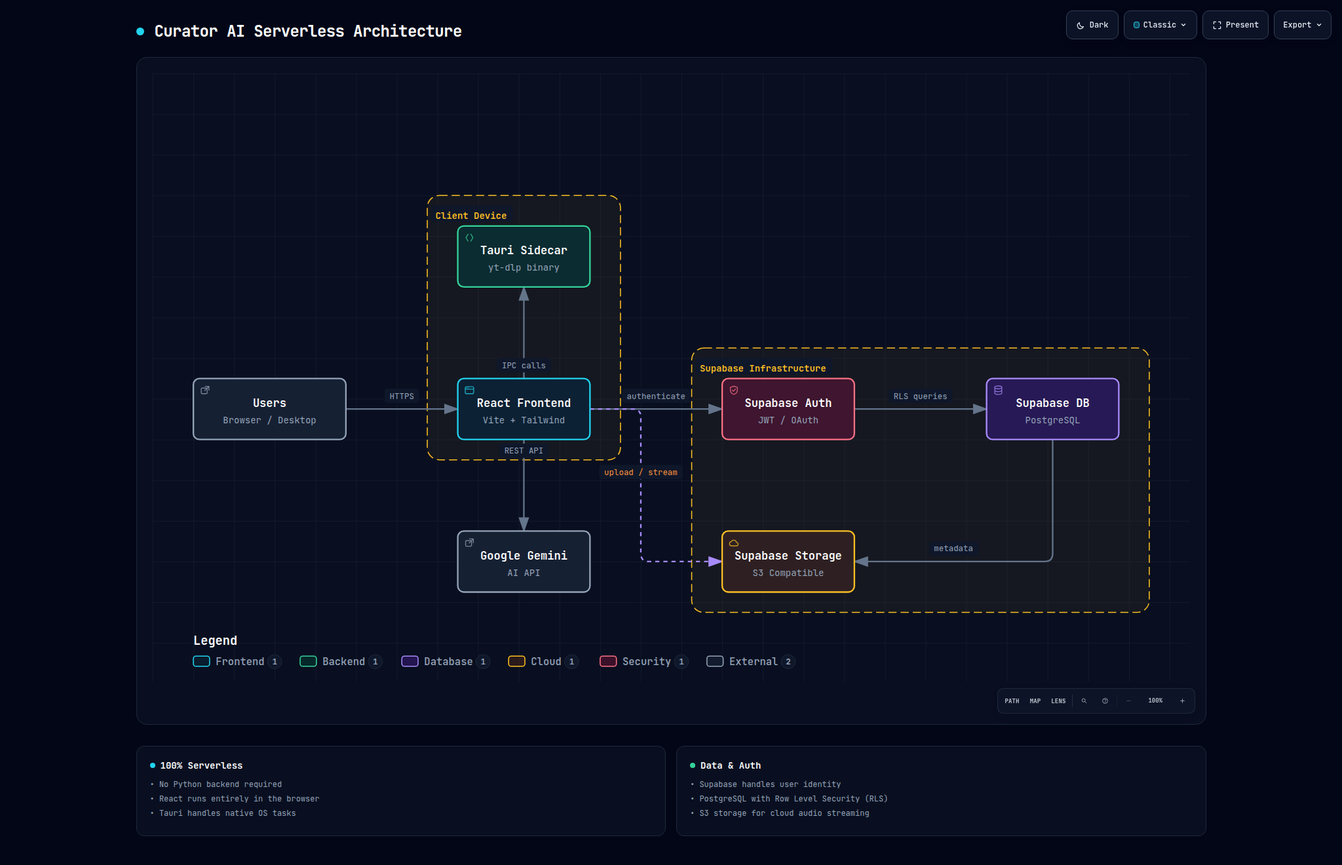
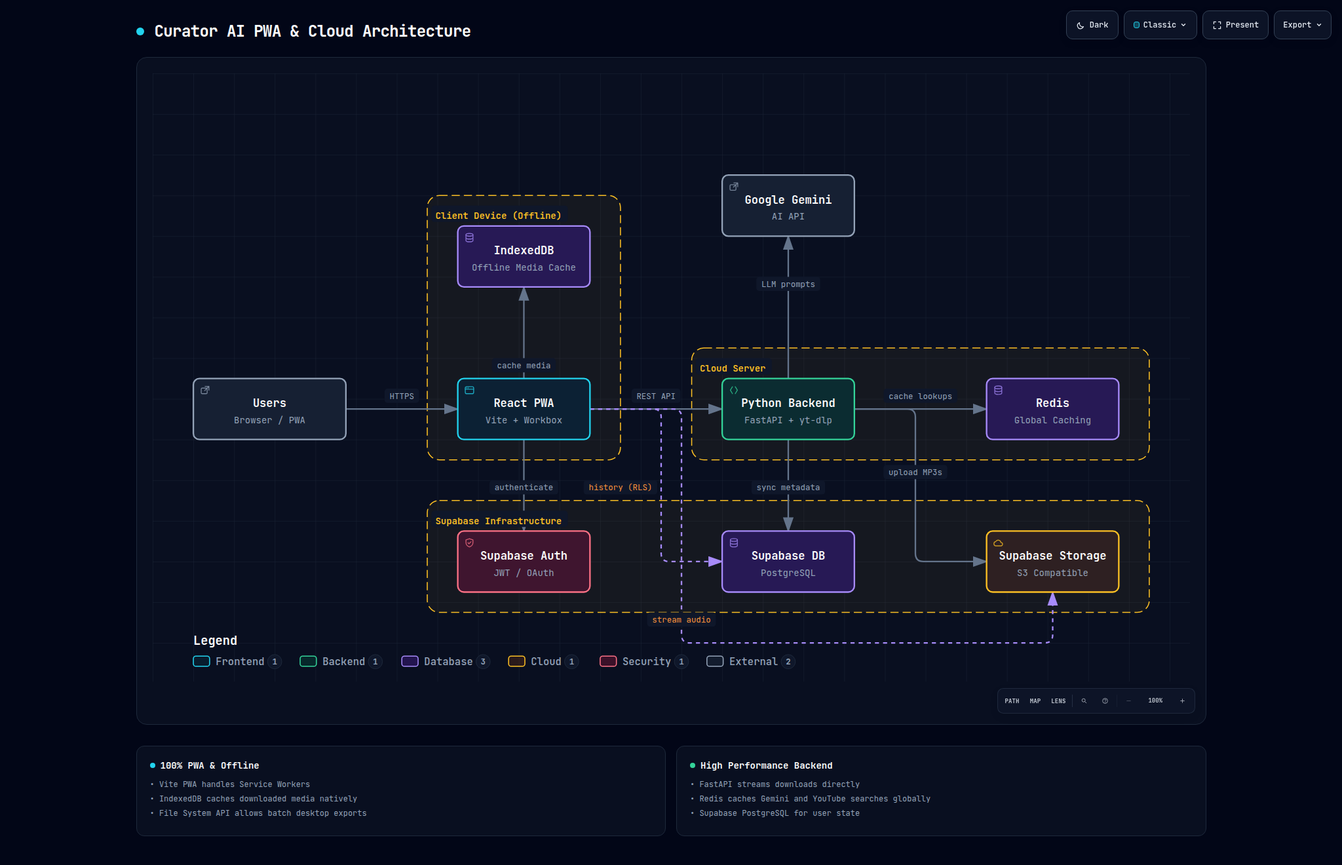
docs: update architecture diagrams to reflect new PWA and Redis caching architecture

diff --git a/docs/architecture/curator-architecture.html b/docs/architecture/curator-architecture.html
@@ -4,7 +4,7 @@
   <meta charset="UTF-8">
   <meta name="viewport" content="width=device-width, initial-scale=1.0">
   <meta name="generator" content="archify 2.17.0-dev.1">
-  <title>Curator AI Serverless Architecture Diagram</title>
+  <title>Curator AI PWA &amp; Cloud Architecture Diagram</title>
   <script>
     // Resolve the theme before first paint so light-preference users don't
     // see a dark flash. The toolbar script below re-applies with UI state.
@@ -5081,7 +5081,7 @@ OTHER DEALINGS IN THE FONT SOFTWARE.
            data-preset-badge-blueprint="BLUEPRINT / REV 01"
            data-preset-badge-editorial="EDITORIAL / FIELD NOTE">
         <div class="pulse-dot"></div>
-        <h1>Curator AI Serverless Architecture</h1>
+        <h1>Curator AI PWA &amp; Cloud Architecture</h1>
       </div>
     </div>
 
@@ -5131,7 +5131,7 @@ OTHER DEALINGS IN THE FONT SOFTWARE.
     <div class="diagram-container" data-detail-level="read"
          data-preset-badge-editorial-plate="ARCHIFY / PLATE 04">
       <svg viewBox="0 0 1020 598" role="img" lang="en" aria-labelledby="archify-diagram-title archify-diagram-description" data-preset="classic" data-quality-profile="showcase">
-        <title id="archify-diagram-title">Curator AI Serverless Architecture</title>
+        <title id="archify-diagram-title">Curator AI PWA &amp; Cloud Architecture</title>
         <desc id="archify-diagram-description">An architecture diagram generated by Archify.</desc>
         <!-- Definitions -->
         <defs>
@@ -5156,22 +5156,27 @@ OTHER DEALINGS IN THE FONT SOFTWARE.
         <rect width="100%" height="100%" fill="url(#grid)" />
 
         <!-- Boundaries (behind everything) -->
-        <rect data-graph-role="structural-frame" data-composition-frame-kind="region" data-composition-frame-id="0" data-composition-frame-label="Supabase Infrastructure" x="530" y="270" width="450" height="260" rx="12" class="c-region" stroke-width="1"/>
+        <rect data-graph-role="structural-frame" data-composition-frame-kind="region" data-composition-frame-id="0" data-composition-frame-label="Client Device (Offline)" x="270" y="120" width="190" height="260" rx="12" class="c-region" stroke-width="1"/>
 
-        <rect data-graph-role="structural-frame" data-composition-frame-kind="region" data-composition-frame-id="1" data-composition-frame-label="Client Device" x="270" y="120" width="190" height="260" rx="12" class="c-region" stroke-width="1"/>
+        <rect data-graph-role="structural-frame" data-composition-frame-kind="region" data-composition-frame-id="1" data-composition-frame-label="Cloud Server" x="530" y="270" width="450" height="110" rx="12" class="c-region" stroke-width="1"/>
+
+        <rect data-graph-role="structural-frame" data-composition-frame-kind="region" data-composition-frame-id="2" data-composition-frame-label="Supabase Infrastructure" x="270" y="420" width="710" height="110" rx="12" class="c-region" stroke-width="1"/>
 
         <!-- Connection paths (before components for correct z-order) -->
-        <path data-edge-from="users" data-edge-to="frontend" data-edge-label="HTTPS" data-edge-key="0" data-edge-id="user-frontend" data-composition-points="190,330;300,330" d="M 190 330 L 300 330" class="a-default" stroke-width="1.5" marker-end="url(#arrowhead)"/>
-        <path data-edge-from="frontend" data-edge-to="tauri" data-edge-label="IPC calls" data-edge-key="1" data-edge-id="frontend-tauri" data-composition-points="365,300;365,210" d="M 365 300 L 365 210" class="a-default" stroke-width="1.5" marker-end="url(#arrowhead)"/>
-        <path data-edge-from="frontend" data-edge-to="gemini" data-edge-label="REST API" data-edge-key="2" data-edge-id="frontend-gemini" data-composition-points="365,360;365,450" d="M 365 360 L 365 450" class="a-default" stroke-width="1.5" marker-end="url(#arrowhead)"/>
-        <path data-edge-from="frontend" data-edge-to="supabase_auth" data-edge-label="authenticate" data-edge-key="3" data-edge-id="frontend-auth" data-composition-points="430,330;560,330" d="M 430 330 L 560 330" class="a-default" stroke-width="1.5" marker-end="url(#arrowhead)"/>
-        <path data-edge-from="supabase_auth" data-edge-to="supabase_db" data-edge-label="RLS queries" data-edge-key="4" data-edge-id="auth-db" data-composition-points="690,330;820,330" d="M 690 330 L 820 330" class="a-default" stroke-width="1.5" marker-end="url(#arrowhead)"/>
-        <path data-edge-from="supabase_db" data-edge-to="supabase_storage" data-edge-label="metadata" data-edge-key="5" data-edge-id="db-storage" data-composition-points="885,360;885,480;690,480" d="M 885 360 L 885 472 Q 885 480 877 480 L 690 480" class="a-default" stroke-width="1.5" marker-end="url(#arrowhead)"/>
-        <path data-edge-from="frontend" data-edge-to="supabase_storage" data-edge-label="upload / stream" data-edge-key="6" data-edge-id="frontend-storage" data-composition-points="430,330;480,330;480,480;560,480" d="M 430 330 L 472 330 Q 480 330 480 338 L 480 472 Q 480 480 488 480 L 560 480" class="a-dashed" stroke-width="1.5" marker-end="url(#arrowhead-dashed)"/>
+        <path data-edge-from="users" data-edge-to="pwa_frontend" data-edge-label="HTTPS" data-edge-key="0" data-edge-id="user-pwa" data-composition-points="190,330;300,330" d="M 190 330 L 300 330" class="a-default" stroke-width="1.5" marker-end="url(#arrowhead)"/>
+        <path data-edge-from="pwa_frontend" data-edge-to="indexed_db" data-edge-label="cache media" data-edge-key="1" data-edge-id="pwa-idb" data-composition-points="365,300;365,210" d="M 365 300 L 365 210" class="a-default" stroke-width="1.5" marker-end="url(#arrowhead)"/>
+        <path data-edge-from="pwa_frontend" data-edge-to="supabase_auth" data-edge-label="authenticate" data-edge-key="2" data-edge-id="pwa-auth" data-composition-points="365,360;365,450" d="M 365 360 L 365 450" class="a-default" stroke-width="1.5" marker-end="url(#arrowhead)"/>
+        <path data-edge-from="pwa_frontend" data-edge-to="fastapi_backend" data-edge-label="REST API" data-edge-key="3" data-edge-id="pwa-backend" data-composition-points="430,330;560,330" d="M 430 330 L 560 330" class="a-default" stroke-width="1.5" marker-end="url(#arrowhead)"/>
+        <path data-edge-from="fastapi_backend" data-edge-to="gemini" data-edge-label="LLM prompts" data-edge-key="4" data-edge-id="backend-gemini" data-composition-points="625,300;625,160" d="M 625 300 L 625 160" class="a-default" stroke-width="1.5" marker-end="url(#arrowhead)"/>
+        <path data-edge-from="fastapi_backend" data-edge-to="redis_cache" data-edge-label="cache lookups" data-edge-key="5" data-edge-id="backend-redis" data-composition-points="690,330;820,330" d="M 690 330 L 820 330" class="a-default" stroke-width="1.5" marker-end="url(#arrowhead)"/>
+        <path data-edge-from="fastapi_backend" data-edge-to="supabase_db" data-edge-label="sync metadata" data-edge-key="6" data-edge-id="backend-db" data-composition-points="625,360;625,450" d="M 625 360 L 625 450" class="a-default" stroke-width="1.5" marker-end="url(#arrowhead)"/>
+        <path data-edge-from="fastapi_backend" data-edge-to="supabase_storage" data-edge-label="upload MP3s" data-edge-key="7" data-edge-id="backend-storage" data-composition-points="690,330;750,330;750,480;820,480" d="M 690 330 L 742 330 Q 750 330 750 338 L 750 472 Q 750 480 758 480 L 820 480" class="a-default" stroke-width="1.5" marker-end="url(#arrowhead)"/>
+        <path data-edge-from="pwa_frontend" data-edge-to="supabase_db" data-edge-label="history (RLS)" data-edge-key="8" data-edge-id="pwa-db" data-composition-points="430,330;500,330;500,480;560,480" d="M 430 330 L 492 330 Q 500 330 500 338 L 500 472 Q 500 480 508 480 L 560 480" class="a-dashed" stroke-width="1.5" marker-end="url(#arrowhead-dashed)"/>
+        <path data-edge-from="pwa_frontend" data-edge-to="supabase_storage" data-edge-label="stream audio" data-edge-key="9" data-edge-id="pwa-storage" data-composition-points="430,330;520,330;520,560;885,560;885,510" d="M 430 330 L 512 330 Q 520 330 520 338 L 520 552 Q 520 560 528 560 L 877 560 Q 885 560 885 552 L 885 510" class="a-dashed" stroke-width="1.5" marker-end="url(#arrowhead-dashed)"/>
 
         <!-- Components -->
-        <g id="node-users" data-node-id="users" data-node-label="Users" tabindex="0" role="button" aria-label="Focus Users, Browser / Desktop, Architecture component" aria-pressed="false" data-node-kind="external" data-node-sublabel="Browser / Desktop" data-node-context="Architecture component">
-          <title>Users · Browser / Desktop · Architecture component</title>
+        <g id="node-users" data-node-id="users" data-node-label="Users" tabindex="0" role="button" aria-label="Focus Users, Browser / PWA, Architecture component" aria-pressed="false" data-node-kind="external" data-node-sublabel="Browser / PWA" data-node-context="Architecture component">
+          <title>Users · Browser / PWA · Architecture component</title>
           <rect x="40" y="300" width="150" height="60" rx="6" class="c-mask"/>
           <rect x="40" y="300" width="150" height="60" rx="6" class="c-external" stroke-width="1.5"/>
           <g aria-hidden="true" data-semantic-sigil="external" class="semantic-sigil s-external" transform="translate(46 306) scale(0.6875)">
@@ -5179,11 +5184,23 @@ OTHER DEALINGS IN THE FONT SOFTWARE.
             <path d="M8 2.5h5.5V8M13.5 2.5 7.5 8.5"/>
           </g>
           <text data-node-label="" data-detail-anchor="" x="115" y="328" class="t-primary" font-size="11" font-weight="600" text-anchor="middle">Users</text>
-        <text data-detail="context" x="115" y="344" class="t-muted" font-size="9" text-anchor="middle">Browser / Desktop</text>
+        <text data-detail="context" x="115" y="344" class="t-muted" font-size="9" text-anchor="middle">Browser / PWA</text>
         </g>
 
-        <g id="node-frontend" data-node-id="frontend" data-node-label="React Frontend" tabindex="0" role="button" aria-label="Focus React Frontend, Vite + Tailwind, Client Device" aria-pressed="false" data-node-kind="frontend" data-node-sublabel="Vite + Tailwind" data-node-context="Client Device">
-          <title>React Frontend · Vite + Tailwind · Client Device</title>
+        <g id="node-indexed_db" data-node-id="indexed_db" data-node-label="IndexedDB" tabindex="0" role="button" aria-label="Focus IndexedDB, Offline Media Cache, Client Device (Offline)" aria-pressed="false" data-node-kind="database" data-node-sublabel="Offline Media Cache" data-node-context="Client Device (Offline)">
+          <title>IndexedDB · Offline Media Cache · Client Device (Offline)</title>
+          <rect x="300" y="150" width="130" height="60" rx="6" class="c-mask"/>
+          <rect x="300" y="150" width="130" height="60" rx="6" class="c-database" stroke-width="1.5"/>
+          <g aria-hidden="true" data-semantic-sigil="database" class="semantic-sigil s-database" transform="translate(306 156) scale(0.6875)">
+            <ellipse cx="8" cy="4" rx="5" ry="2"/>
+            <path d="M3 4v8c0 1.1 2.2 2 5 2s5-.9 5-2V4M3 8c0 1.1 2.2 2 5 2s5-.9 5-2"/>
+          </g>
+          <text data-node-label="" data-detail-anchor="" x="365" y="178" class="t-primary" font-size="11" font-weight="600" text-anchor="middle">IndexedDB</text>
+        <text data-detail="context" x="365" y="194" class="t-muted" font-size="9" text-anchor="middle">Offline Media Cache</text>
+        </g>
+
+        <g id="node-pwa_frontend" data-node-id="pwa_frontend" data-node-label="React PWA" tabindex="0" role="button" aria-label="Focus React PWA, Vite + Workbox, Client Device (Offline)" aria-pressed="false" data-node-kind="frontend" data-node-sublabel="Vite + Workbox" data-node-context="Client Device (Offline)">
+          <title>React PWA · Vite + Workbox · Client Device (Offline)</title>
           <rect x="300" y="300" width="130" height="60" rx="6" class="c-mask"/>
           <rect x="300" y="300" width="130" height="60" rx="6" class="c-frontend" stroke-width="1.5"/>
           <g aria-hidden="true" data-semantic-sigil="frontend" class="semantic-sigil s-frontend" transform="translate(306 306) scale(0.6875)">
@@ -5192,107 +5209,136 @@ OTHER DEALINGS IN THE FONT SOFTWARE.
             <circle cx="4.1" cy="4.8" r=".7" class="sigil-fill"/>
             <circle cx="6.3" cy="4.8" r=".7" class="sigil-fill"/>
           </g>
-          <text data-node-label="" data-detail-anchor="" x="365" y="328" class="t-primary" font-size="11" font-weight="600" text-anchor="middle">React Frontend</text>
-        <text data-detail="context" x="365" y="344" class="t-muted" font-size="9" text-anchor="middle">Vite + Tailwind</text>
-        </g>
-
-        <g id="node-tauri" data-node-id="tauri" data-node-label="Tauri Sidecar" tabindex="0" role="button" aria-label="Focus Tauri Sidecar, yt-dlp binary, Client Device" aria-pressed="false" data-node-kind="backend" data-node-sublabel="yt-dlp binary" data-node-context="Client Device">
-          <title>Tauri Sidecar · yt-dlp binary · Client Device</title>
-          <rect x="300" y="150" width="130" height="60" rx="6" class="c-mask"/>
-          <rect x="300" y="150" width="130" height="60" rx="6" class="c-backend" stroke-width="1.5"/>
-          <g aria-hidden="true" data-semantic-sigil="backend" class="semantic-sigil s-backend" transform="translate(306 156) scale(0.6875)">
-            <path d="M6 3 3 8l3 5M10 3l3 5-3 5"/>
-          </g>
-          <text data-node-label="" data-detail-anchor="" x="365" y="178" class="t-primary" font-size="11" font-weight="600" text-anchor="middle">Tauri Sidecar</text>
-        <text data-detail="context" x="365" y="194" class="t-muted" font-size="9" text-anchor="middle">yt-dlp binary</text>
-        </g>
-
-        <g id="node-gemini" data-node-id="gemini" data-node-label="Google Gemini" tabindex="0" role="button" aria-label="Focus Google Gemini, AI API, Architecture component" aria-pressed="false" data-node-kind="external" data-node-sublabel="AI API" data-node-context="Architecture component">
-          <title>Google Gemini · AI API · Architecture component</title>
-          <rect x="300" y="450" width="130" height="60" rx="6" class="c-mask"/>
-          <rect x="300" y="450" width="130" height="60" rx="6" class="c-external" stroke-width="1.5"/>
-          <g aria-hidden="true" data-semantic-sigil="external" class="semantic-sigil s-external" transform="translate(306 456) scale(0.6875)">
-            <rect x="2.5" y="5" width="8.5" height="8" rx="1.5"/>
-            <path d="M8 2.5h5.5V8M13.5 2.5 7.5 8.5"/>
-          </g>
-          <text data-node-label="" data-detail-anchor="" x="365" y="478" class="t-primary" font-size="11" font-weight="600" text-anchor="middle">Google Gemini</text>
-        <text data-detail="context" x="365" y="494" class="t-muted" font-size="9" text-anchor="middle">AI API</text>
+          <text data-node-label="" data-detail-anchor="" x="365" y="328" class="t-primary" font-size="11" font-weight="600" text-anchor="middle">React PWA</text>
+        <text data-detail="context" x="365" y="344" class="t-muted" font-size="9" text-anchor="middle">Vite + Workbox</text>
         </g>
 
         <g id="node-supabase_auth" data-node-id="supabase_auth" data-node-label="Supabase Auth" tabindex="0" role="button" aria-label="Focus Supabase Auth, JWT / OAuth, Supabase Infrastructure" aria-pressed="false" data-node-kind="security" data-node-sublabel="JWT / OAuth" data-node-context="Supabase Infrastructure">
           <title>Supabase Auth · JWT / OAuth · Supabase Infrastructure</title>
-          <rect x="560" y="300" width="130" height="60" rx="6" class="c-mask"/>
-          <rect x="560" y="300" width="130" height="60" rx="6" class="c-security" stroke-width="1.5"/>
-          <g aria-hidden="true" data-semantic-sigil="security" class="semantic-sigil s-security" transform="translate(566 306) scale(0.6875)">
+          <rect x="300" y="450" width="130" height="60" rx="6" class="c-mask"/>
+          <rect x="300" y="450" width="130" height="60" rx="6" class="c-security" stroke-width="1.5"/>
+          <g aria-hidden="true" data-semantic-sigil="security" class="semantic-sigil s-security" transform="translate(306 456) scale(0.6875)">
             <path d="M8 2.2 13 4v3.5c0 3.1-1.8 5.4-5 6.5-3.2-1.1-5-3.4-5-6.5V4Z"/>
             <path d="m5.8 8 1.5 1.5 3-3"/>
           </g>
-          <text data-node-label="" data-detail-anchor="" x="625" y="328" class="t-primary" font-size="11" font-weight="600" text-anchor="middle">Supabase Auth</text>
-        <text data-detail="context" x="625" y="344" class="t-muted" font-size="9" text-anchor="middle">JWT / OAuth</text>
+          <text data-node-label="" data-detail-anchor="" x="365" y="478" class="t-primary" font-size="11" font-weight="600" text-anchor="middle">Supabase Auth</text>
+        <text data-detail="context" x="365" y="494" class="t-muted" font-size="9" text-anchor="middle">JWT / OAuth</text>
         </g>
 
-        <g id="node-supabase_storage" data-node-id="supabase_storage" data-node-label="Supabase Storage" tabindex="0" role="button" aria-label="Focus Supabase Storage, S3 Compatible, Supabase Infrastructure" aria-pressed="false" data-node-kind="cloud" data-node-sublabel="S3 Compatible" data-node-context="Supabase Infrastructure">
-          <title>Supabase Storage · S3 Compatible · Supabase Infrastructure</title>
-          <rect x="560" y="450" width="130" height="60" rx="6" class="c-mask"/>
-          <rect x="560" y="450" width="130" height="60" rx="6" class="c-cloud" stroke-width="1.5"/>
-          <g aria-hidden="true" data-semantic-sigil="cloud" class="semantic-sigil s-cloud" transform="translate(566 456) scale(0.6875)">
-            <path d="M4.3 12.5h7.3a2.4 2.4 0 0 0 .2-4.8 4 4 0 0 0-7.5-1.3A3.1 3.1 0 0 0 4.3 12.5Z"/>
+        <g id="node-gemini" data-node-id="gemini" data-node-label="Google Gemini" tabindex="0" role="button" aria-label="Focus Google Gemini, AI API, Architecture component" aria-pressed="false" data-node-kind="external" data-node-sublabel="AI API" data-node-context="Architecture component">
+          <title>Google Gemini · AI API · Architecture component</title>
+          <rect x="560" y="100" width="130" height="60" rx="6" class="c-mask"/>
+          <rect x="560" y="100" width="130" height="60" rx="6" class="c-external" stroke-width="1.5"/>
+          <g aria-hidden="true" data-semantic-sigil="external" class="semantic-sigil s-external" transform="translate(566 106) scale(0.6875)">
+            <rect x="2.5" y="5" width="8.5" height="8" rx="1.5"/>
+            <path d="M8 2.5h5.5V8M13.5 2.5 7.5 8.5"/>
           </g>
-          <text data-node-label="" data-detail-anchor="" x="625" y="478" class="t-primary" font-size="11" font-weight="600" text-anchor="middle">Supabase Storage</text>
-        <text data-detail="context" x="625" y="494" class="t-muted" font-size="9" text-anchor="middle">S3 Compatible</text>
+          <text data-node-label="" data-detail-anchor="" x="625" y="128" class="t-primary" font-size="11" font-weight="600" text-anchor="middle">Google Gemini</text>
+        <text data-detail="context" x="625" y="144" class="t-muted" font-size="9" text-anchor="middle">AI API</text>
+        </g>
+
+        <g id="node-fastapi_backend" data-node-id="fastapi_backend" data-node-label="Python Backend" tabindex="0" role="button" aria-label="Focus Python Backend, FastAPI + yt-dlp, Cloud Server" aria-pressed="false" data-node-kind="backend" data-node-sublabel="FastAPI + yt-dlp" data-node-context="Cloud Server">
+          <title>Python Backend · FastAPI + yt-dlp · Cloud Server</title>
+          <rect x="560" y="300" width="130" height="60" rx="6" class="c-mask"/>
+          <rect x="560" y="300" width="130" height="60" rx="6" class="c-backend" stroke-width="1.5"/>
+          <g aria-hidden="true" data-semantic-sigil="backend" class="semantic-sigil s-backend" transform="translate(566 306) scale(0.6875)">
+            <path d="M6 3 3 8l3 5M10 3l3 5-3 5"/>
+          </g>
+          <text data-node-label="" data-detail-anchor="" x="625" y="328" class="t-primary" font-size="11" font-weight="600" text-anchor="middle">Python Backend</text>
+        <text data-detail="context" x="625" y="344" class="t-muted" font-size="9" text-anchor="middle">FastAPI + yt-dlp</text>
         </g>
 
         <g id="node-supabase_db" data-node-id="supabase_db" data-node-label="Supabase DB" tabindex="0" role="button" aria-label="Focus Supabase DB, PostgreSQL, Supabase Infrastructure" aria-pressed="false" data-node-kind="database" data-node-sublabel="PostgreSQL" data-node-context="Supabase Infrastructure">
           <title>Supabase DB · PostgreSQL · Supabase Infrastructure</title>
+          <rect x="560" y="450" width="130" height="60" rx="6" class="c-mask"/>
+          <rect x="560" y="450" width="130" height="60" rx="6" class="c-database" stroke-width="1.5"/>
+          <g aria-hidden="true" data-semantic-sigil="database" class="semantic-sigil s-database" transform="translate(566 456) scale(0.6875)">
+            <ellipse cx="8" cy="4" rx="5" ry="2"/>
+            <path d="M3 4v8c0 1.1 2.2 2 5 2s5-.9 5-2V4M3 8c0 1.1 2.2 2 5 2s5-.9 5-2"/>
+          </g>
+          <text data-node-label="" data-detail-anchor="" x="625" y="478" class="t-primary" font-size="11" font-weight="600" text-anchor="middle">Supabase DB</text>
+        <text data-detail="context" x="625" y="494" class="t-muted" font-size="9" text-anchor="middle">PostgreSQL</text>
+        </g>
+
+        <g id="node-redis_cache" data-node-id="redis_cache" data-node-label="Redis" tabindex="0" role="button" aria-label="Focus Redis, Global Caching, Cloud Server" aria-pressed="false" data-node-kind="database" data-node-sublabel="Global Caching" data-node-context="Cloud Server">
+          <title>Redis · Global Caching · Cloud Server</title>
           <rect x="820" y="300" width="130" height="60" rx="6" class="c-mask"/>
           <rect x="820" y="300" width="130" height="60" rx="6" class="c-database" stroke-width="1.5"/>
           <g aria-hidden="true" data-semantic-sigil="database" class="semantic-sigil s-database" transform="translate(826 306) scale(0.6875)">
             <ellipse cx="8" cy="4" rx="5" ry="2"/>
             <path d="M3 4v8c0 1.1 2.2 2 5 2s5-.9 5-2V4M3 8c0 1.1 2.2 2 5 2s5-.9 5-2"/>
           </g>
-          <text data-node-label="" data-detail-anchor="" x="885" y="328" class="t-primary" font-size="11" font-weight="600" text-anchor="middle">Supabase DB</text>
-        <text data-detail="context" x="885" y="344" class="t-muted" font-size="9" text-anchor="middle">PostgreSQL</text>
+          <text data-node-label="" data-detail-anchor="" x="885" y="328" class="t-primary" font-size="11" font-weight="600" text-anchor="middle">Redis</text>
+        <text data-detail="context" x="885" y="344" class="t-muted" font-size="9" text-anchor="middle">Global Caching</text>
+        </g>
+
+        <g id="node-supabase_storage" data-node-id="supabase_storage" data-node-label="Supabase Storage" tabindex="0" role="button" aria-label="Focus Supabase Storage, S3 Compatible, Supabase Infrastructure" aria-pressed="false" data-node-kind="cloud" data-node-sublabel="S3 Compatible" data-node-context="Supabase Infrastructure">
+          <title>Supabase Storage · S3 Compatible · Supabase Infrastructure</title>
+          <rect x="820" y="450" width="130" height="60" rx="6" class="c-mask"/>
+          <rect x="820" y="450" width="130" height="60" rx="6" class="c-cloud" stroke-width="1.5"/>
+          <g aria-hidden="true" data-semantic-sigil="cloud" class="semantic-sigil s-cloud" transform="translate(826 456) scale(0.6875)">
+            <path d="M4.3 12.5h7.3a2.4 2.4 0 0 0 .2-4.8 4 4 0 0 0-7.5-1.3A3.1 3.1 0 0 0 4.3 12.5Z"/>
+          </g>
+          <text data-node-label="" data-detail-anchor="" x="885" y="478" class="t-primary" font-size="11" font-weight="600" text-anchor="middle">Supabase Storage</text>
+        <text data-detail="context" x="885" y="494" class="t-muted" font-size="9" text-anchor="middle">S3 Compatible</text>
         </g>
 
         <!-- Connection labels -->
-        <g data-detail="context" data-edge-from="users" data-edge-to="frontend" data-edge-label="HTTPS" data-edge-key="0" data-edge-id="user-frontend">
+        <g data-detail="context" data-edge-from="users" data-edge-to="pwa_frontend" data-edge-label="HTTPS" data-edge-key="0" data-edge-id="user-pwa">
           <rect x="228" y="310" width="34" height="14" rx="3" class="c-mask"/>
           <text x="245" y="320" class="t-muted" font-size="8" text-anchor="middle">HTTPS</text>
         </g>
-        <g data-detail="context" data-edge-from="frontend" data-edge-to="tauri" data-edge-label="IPC calls" data-edge-key="1" data-edge-id="frontend-tauri">
-          <rect x="338.4" y="280" width="53.199999999999996" height="14" rx="3" class="c-mask"/>
-          <text x="365" y="290" class="t-muted" font-size="8" text-anchor="middle">IPC calls</text>
+        <g data-detail="context" data-edge-from="pwa_frontend" data-edge-to="indexed_db" data-edge-label="cache media" data-edge-key="1" data-edge-id="pwa-idb">
+          <rect x="333.6" y="280" width="62.8" height="14" rx="3" class="c-mask"/>
+          <text x="365" y="290" class="t-muted" font-size="8" text-anchor="middle">cache media</text>
         </g>
-        <g data-detail="context" data-edge-from="frontend" data-edge-to="gemini" data-edge-label="REST API" data-edge-key="2" data-edge-id="frontend-gemini">
-          <rect x="340.8" y="364" width="48.4" height="14" rx="3" class="c-mask"/>
-          <text x="365" y="374" class="t-muted" font-size="8" text-anchor="middle">REST API</text>
+        <g data-detail="context" data-edge-from="pwa_frontend" data-edge-to="supabase_auth" data-edge-label="authenticate" data-edge-key="2" data-edge-id="pwa-auth">
+          <rect x="331.2" y="400" width="67.6" height="14" rx="3" class="c-mask"/>
+          <text x="365" y="410" class="t-muted" font-size="8" text-anchor="middle">authenticate</text>
         </g>
-        <g data-detail="context" data-edge-from="frontend" data-edge-to="supabase_auth" data-edge-label="authenticate" data-edge-key="3" data-edge-id="frontend-auth">
-          <rect x="461.2" y="310" width="67.6" height="14" rx="3" class="c-mask"/>
-          <text x="495" y="320" class="t-muted" font-size="8" text-anchor="middle">authenticate</text>
+        <g data-detail="context" data-edge-from="pwa_frontend" data-edge-to="fastapi_backend" data-edge-label="REST API" data-edge-key="3" data-edge-id="pwa-backend">
+          <rect x="470.8" y="310" width="48.4" height="14" rx="3" class="c-mask"/>
+          <text x="495" y="320" class="t-muted" font-size="8" text-anchor="middle">REST API</text>
         </g>
-        <g data-detail="context" data-edge-from="supabase_auth" data-edge-to="supabase_db" data-edge-label="RLS queries" data-edge-key="4" data-edge-id="auth-db">
-          <rect x="723.6" y="310" width="62.8" height="14" rx="3" class="c-mask"/>
-          <text x="755" y="320" class="t-muted" font-size="8" text-anchor="middle">RLS queries</text>
+        <g data-detail="context" data-edge-from="fastapi_backend" data-edge-to="gemini" data-edge-label="LLM prompts" data-edge-key="4" data-edge-id="backend-gemini">
+          <rect x="593.6" y="200" width="62.8" height="14" rx="3" class="c-mask"/>
+          <text x="625" y="210" class="t-muted" font-size="8" text-anchor="middle">LLM prompts</text>
         </g>
-        <g data-detail="context" data-edge-from="supabase_db" data-edge-to="supabase_storage" data-edge-label="metadata" data-edge-key="5" data-edge-id="db-storage">
-          <rect x="763.3" y="460" width="48.4" height="14" rx="3" class="c-mask"/>
-          <text x="787.5" y="470" class="t-muted" font-size="8" text-anchor="middle">metadata</text>
+        <g data-detail="context" data-edge-from="fastapi_backend" data-edge-to="redis_cache" data-edge-label="cache lookups" data-edge-key="5" data-edge-id="backend-redis">
+          <rect x="718.8" y="310" width="72.4" height="14" rx="3" class="c-mask"/>
+          <text x="755" y="320" class="t-muted" font-size="8" text-anchor="middle">cache lookups</text>
         </g>
-        <g data-detail="context" data-edge-from="frontend" data-edge-to="supabase_storage" data-edge-label="upload / stream" data-edge-key="6" data-edge-id="frontend-storage">
-          <rect x="439" y="385" width="82" height="14" rx="3" class="c-mask"/>
-          <text x="480" y="395" class="t-messagebus" font-size="8" text-anchor="middle">upload / stream</text>
+        <g data-detail="context" data-edge-from="fastapi_backend" data-edge-to="supabase_db" data-edge-label="sync metadata" data-edge-key="6" data-edge-id="backend-db">
+          <rect x="588.8" y="400" width="72.4" height="14" rx="3" class="c-mask"/>
+          <text x="625" y="410" class="t-muted" font-size="8" text-anchor="middle">sync metadata</text>
+        </g>
+        <g data-detail="context" data-edge-from="fastapi_backend" data-edge-to="supabase_storage" data-edge-label="upload MP3s" data-edge-key="7" data-edge-id="backend-storage">
+          <rect x="718.6" y="385" width="62.8" height="14" rx="3" class="c-mask"/>
+          <text x="750" y="395" class="t-muted" font-size="8" text-anchor="middle">upload MP3s</text>
+        </g>
+        <g data-detail="context" data-edge-from="pwa_frontend" data-edge-to="supabase_db" data-edge-label="history (RLS)" data-edge-key="8" data-edge-id="pwa-db">
+          <rect x="423.8" y="400" width="72.4" height="14" rx="3" class="c-mask"/>
+          <text x="460" y="410" class="t-messagebus" font-size="8" text-anchor="middle">history (RLS)</text>
+        </g>
+        <g data-detail="context" data-edge-from="pwa_frontend" data-edge-to="supabase_storage" data-edge-label="stream audio" data-edge-key="9" data-edge-id="pwa-storage">
+          <rect x="486.2" y="530" width="67.6" height="14" rx="3" class="c-mask"/>
+          <text x="520" y="540" class="t-messagebus" font-size="8" text-anchor="middle">stream audio</text>
         </g>
 
         <!-- Boundary labels (foreground masks keep routes out of titles) -->
-        <g data-graph-role="structural-frame-label" data-composition-frame-id="0" data-composition-frame-kind="region" data-composition-frame-label="Supabase Infrastructure">
-          <rect data-graph-role="structural-frame-label-mask" x="534" y="280" width="134.2" height="16" rx="3" class="c-mask"/>
-          <text data-boundary-label="" x="538" y="293" class="t-cloud" font-size="9" font-weight="600">Supabase Infrastructure</text>
+        <g data-graph-role="structural-frame-label" data-composition-frame-id="0" data-composition-frame-kind="region" data-composition-frame-label="Client Device (Offline)">
+          <rect data-graph-role="structural-frame-label-mask" x="274" y="130" width="134.2" height="16" rx="3" class="c-mask"/>
+          <text data-boundary-label="" x="278" y="143" class="t-cloud" font-size="9" font-weight="600">Client Device (Offline)</text>
         </g>
 
-        <g data-graph-role="structural-frame-label" data-composition-frame-id="1" data-composition-frame-kind="region" data-composition-frame-label="Client Device">
-          <rect data-graph-role="structural-frame-label-mask" x="274" y="130" width="80.2" height="16" rx="3" class="c-mask"/>
-          <text data-boundary-label="" x="278" y="143" class="t-cloud" font-size="9" font-weight="600">Client Device</text>
+        <g data-graph-role="structural-frame-label" data-composition-frame-id="1" data-composition-frame-kind="region" data-composition-frame-label="Cloud Server">
+          <rect data-graph-role="structural-frame-label-mask" x="534" y="280" width="74.8" height="16" rx="3" class="c-mask"/>
+          <text data-boundary-label="" x="538" y="293" class="t-cloud" font-size="9" font-weight="600">Cloud Server</text>
+        </g>
+
+        <g data-graph-role="structural-frame-label" data-composition-frame-id="2" data-composition-frame-kind="region" data-composition-frame-label="Supabase Infrastructure">
+          <rect data-graph-role="structural-frame-label-mask" x="274" y="430" width="134.2" height="16" rx="3" class="c-mask"/>
+          <text data-boundary-label="" x="278" y="443" class="t-cloud" font-size="9" font-weight="600">Supabase Infrastructure</text>
         </g>
 
         <!-- Legend -->
@@ -5512,24 +5558,24 @@ OTHER DEALINGS IN THE FONT SOFTWARE.
       <div class="card">
         <div class="card-header">
           <div class="card-dot cyan"></div>
-          <h3>100% Serverless</h3>
+          <h3>100% PWA &amp; Offline</h3>
         </div>
         <ul>
-          <li>&bull; No Python backend required</li>
-          <li>&bull; React runs entirely in the browser</li>
-          <li>&bull; Tauri handles native OS tasks</li>
+          <li>&bull; Vite PWA handles Service Workers</li>
+          <li>&bull; IndexedDB caches downloaded media natively</li>
+          <li>&bull; File System API allows batch desktop exports</li>
         </ul>
       </div>
 
       <div class="card">
         <div class="card-header">
           <div class="card-dot emerald"></div>
-          <h3>Data &amp; Auth</h3>
+          <h3>High Performance Backend</h3>
         </div>
         <ul>
-          <li>&bull; Supabase handles user identity</li>
-          <li>&bull; PostgreSQL with Row Level Security (RLS)</li>
-          <li>&bull; S3 storage for cloud audio streaming</li>
+          <li>&bull; FastAPI streams downloads directly</li>
+          <li>&bull; Redis caches Gemini and YouTube searches globally</li>
+          <li>&bull; Supabase PostgreSQL for user state</li>
         </ul>
       </div>
     </div>
